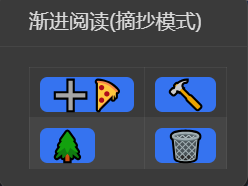
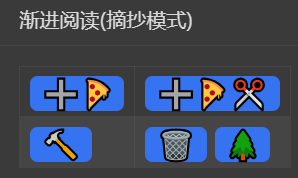
btn

diff --git a/sy-progressive-plugin/src/digestUtils.ts b/sy-progressive-plugin/src/digestUtils.ts
@@ -3,6 +3,8 @@ import { DATA_NODE_ID, DATA_NODE_INDEX, IN_BOOK_INDEX, PARAGRAPH_INDEX, PDIGEST_
 import { cleanDiv, get_siyuan_lnk_md, getContenteditableElement, NewNodeID, set_href, siyuan, timeUtil } from "../../sy-tomato-plugin/src/libs/utils";
 import { getHPathByDocID, getTraceDoc } from "./helper";
 import { getBookID } from "../../sy-tomato-plugin/src/libs/progressive";
+import { digestProgressiveBox } from "./DigestProgressiveBox";
+import { spliyBy } from "./SplitSentence";
 
 async function newDigestDoc(docID: string, anchorID: string, bookID: string, boxID: string, idx: string, name: string, md: string) {
     const hpath = await getHPathByDocID(bookID, "digest");
@@ -20,7 +22,7 @@ async function newDigestDoc(docID: string, anchorID: string, bookID: string, box
 export async function cleanDigest(digestID: string) {
     let { bookID } = await getBookID(digestID);
     if (!bookID) bookID = digestID;
-    const rows = await siyuan.sqlAttr(`select block_id from attributes where name="${PDIGEST_CTIME}" and value like "🔨#${bookID}#% limit 1000000"`);
+    const rows = await siyuan.sqlAttr(`select block_id from attributes where name="${PDIGEST_CTIME}" and value like "🔨#${bookID}#%" limit 1000000`);
     for (const row of rows) {
         await siyuan.removeDocByID(row.block_id);
     }
@@ -153,7 +155,7 @@ async function tryOpen(rows: Attributes[], plugin: Plugin) {
     return false;
 }
 
-export async function digest(anchorID: string, docID: string, boxID: string, allText: string, selected: HTMLElement[], lute: Lute, plugin: Plugin) {
+export async function digest(anchorID: string, docID: string, boxID: string, allText: string, selected: HTMLElement[], split = false) {
     if (selected == null || selected.length == 0) return;
     const md = [];
     let idx: string;
@@ -174,7 +176,20 @@ export async function digest(anchorID: string, docID: string, boxID: string, all
         cloned.setAttribute(IN_BOOK_INDEX, inBookIdx);
         cloned.setAttribute(PARAGRAPH_INDEX, String(i));
         cloned.setAttribute(PROG_ORIGIN_TEXT, "1");
-        md.push(lute.BlockDOM2Md(cloned.outerHTML));
+        cloned.style.backgroundColor = "";
+
+        const m = digestProgressiveBox.lute.BlockDOM2Md(cloned.outerHTML);
+        if (split) {
+            const parts = m.trim().split("\n");
+            const attrLine = parts.pop();
+            let ps = [cloned.textContent];
+            for (const s of "\n。！!？?；;:：") ps = spliyBy(ps, s);
+            ps = spliyBy(ps, ". ");
+            ps = spliyBy(ps, "……");
+            ps.forEach(p => md.push(`${p}\n${attrLine}`));
+        } else {
+            md.push(m);
+        }
         i++;
     }
     if (!idx) idx = "0";
@@ -190,7 +205,7 @@ export async function digest(anchorID: string, docID: string, boxID: string, all
         md.join("\n"),
     );
     await openTab({
-        app: plugin.app,
+        app: digestProgressiveBox.plugin.app,
         doc: {
             id: digestID,
             zoomIn: false,
@@ -198,7 +213,7 @@ export async function digest(anchorID: string, docID: string, boxID: string, all
         },
     });
     await setDigestCard(bookID, digestID);
-    addPlusLnk(selected, digestID, lute);
+    addPlusLnk(selected, digestID, digestProgressiveBox.lute);
 }
 
 async function addPlusLnk(selected: HTMLElement[], digestID: string, lute: Lute) {

diff --git a/sy-progressive-plugin/src/DigestProgressive.svelte b/sy-progressive-plugin/src/DigestProgressive.svelte
@@ -78,13 +78,30 @@
                                 boxID,
                                 allText,
                                 selected,
-                                digestProgressiveBox.lute,
-                                digestProgressiveBox.plugin,
                             );
                             destroy();
                         }}>➕🍕</button
                     >
                 </td>
+                <td>
+                    <button
+                        title="摘抄并断句"
+                        class="b3-button"
+                        on:click={async () => {
+                            await digest(
+                                anchorID,
+                                docID,
+                                boxID,
+                                allText,
+                                selected,
+                                true,
+                            );
+                            destroy();
+                        }}>➕🍕✂</button
+                    >
+                </td>
+            </tr>
+            <tr>
                 <td>
                     <button
                         title="🍕🦈完成：转移闪卡到其他摘抄"
@@ -107,9 +124,15 @@
                         }}>🔨</button
                     >
                 </td>
-            </tr>
-            <tr>
                 <td>
+                    <button
+                        title="清理已经完成的摘抄"
+                        class="b3-button"
+                        on:click={async () => {
+                            await cleanDigest(docID);
+                            destroy();
+                        }}>🗑</button
+                    >
                     <button
                         title="摘抄轨迹链"
                         class="b3-button"
@@ -121,16 +144,6 @@
                             );
                             destroy();
                         }}>🌲</button
-                    >
-                </td>
-                <td>
-                    <button
-                        title="清理已经完成的摘抄"
-                        class="b3-button"
-                        on:click={async () => {
-                            await cleanDigest(docID);
-                            destroy();
-                        }}>🗑</button
                     >
                 </td>
             </tr>

diff --git a/sy-progressive-plugin/src/SplitSentence.ts b/sy-progressive-plugin/src/SplitSentence.ts
@@ -151,7 +151,7 @@ function movePunctuations(a: string, b: string) {
     return [a, b];
 }
 
-function spliyBy(content: string[], s: string) {
+export function spliyBy(content: string[], s: string) {
     const sentences: string[] = [];
     for (const c of content.filter(i => i.length > 0)) {
         const parts = c.split(new RegExp("\\" + s, "g"));

diff --git a/sy-progressive-plugin/README_zh_CN.md b/sy-progressive-plugin/README_zh_CN.md
@@ -16,7 +16,7 @@
 
 阅读时为了尽量不打断阅读，可以先摘抄觉得好的内容，所摘抄的内容会在后续闪卡复习时出现。
 
-选中多行然后使用`Alt+Z -> ➕🍕`。
+选中多行然后使用`Alt+Z -> ➕🍕` 或者 `Alt+Z -> ➕🍕✂ 按照标点断句`。
 
 可对摘抄进行再摘抄，可无限套娃。
 
